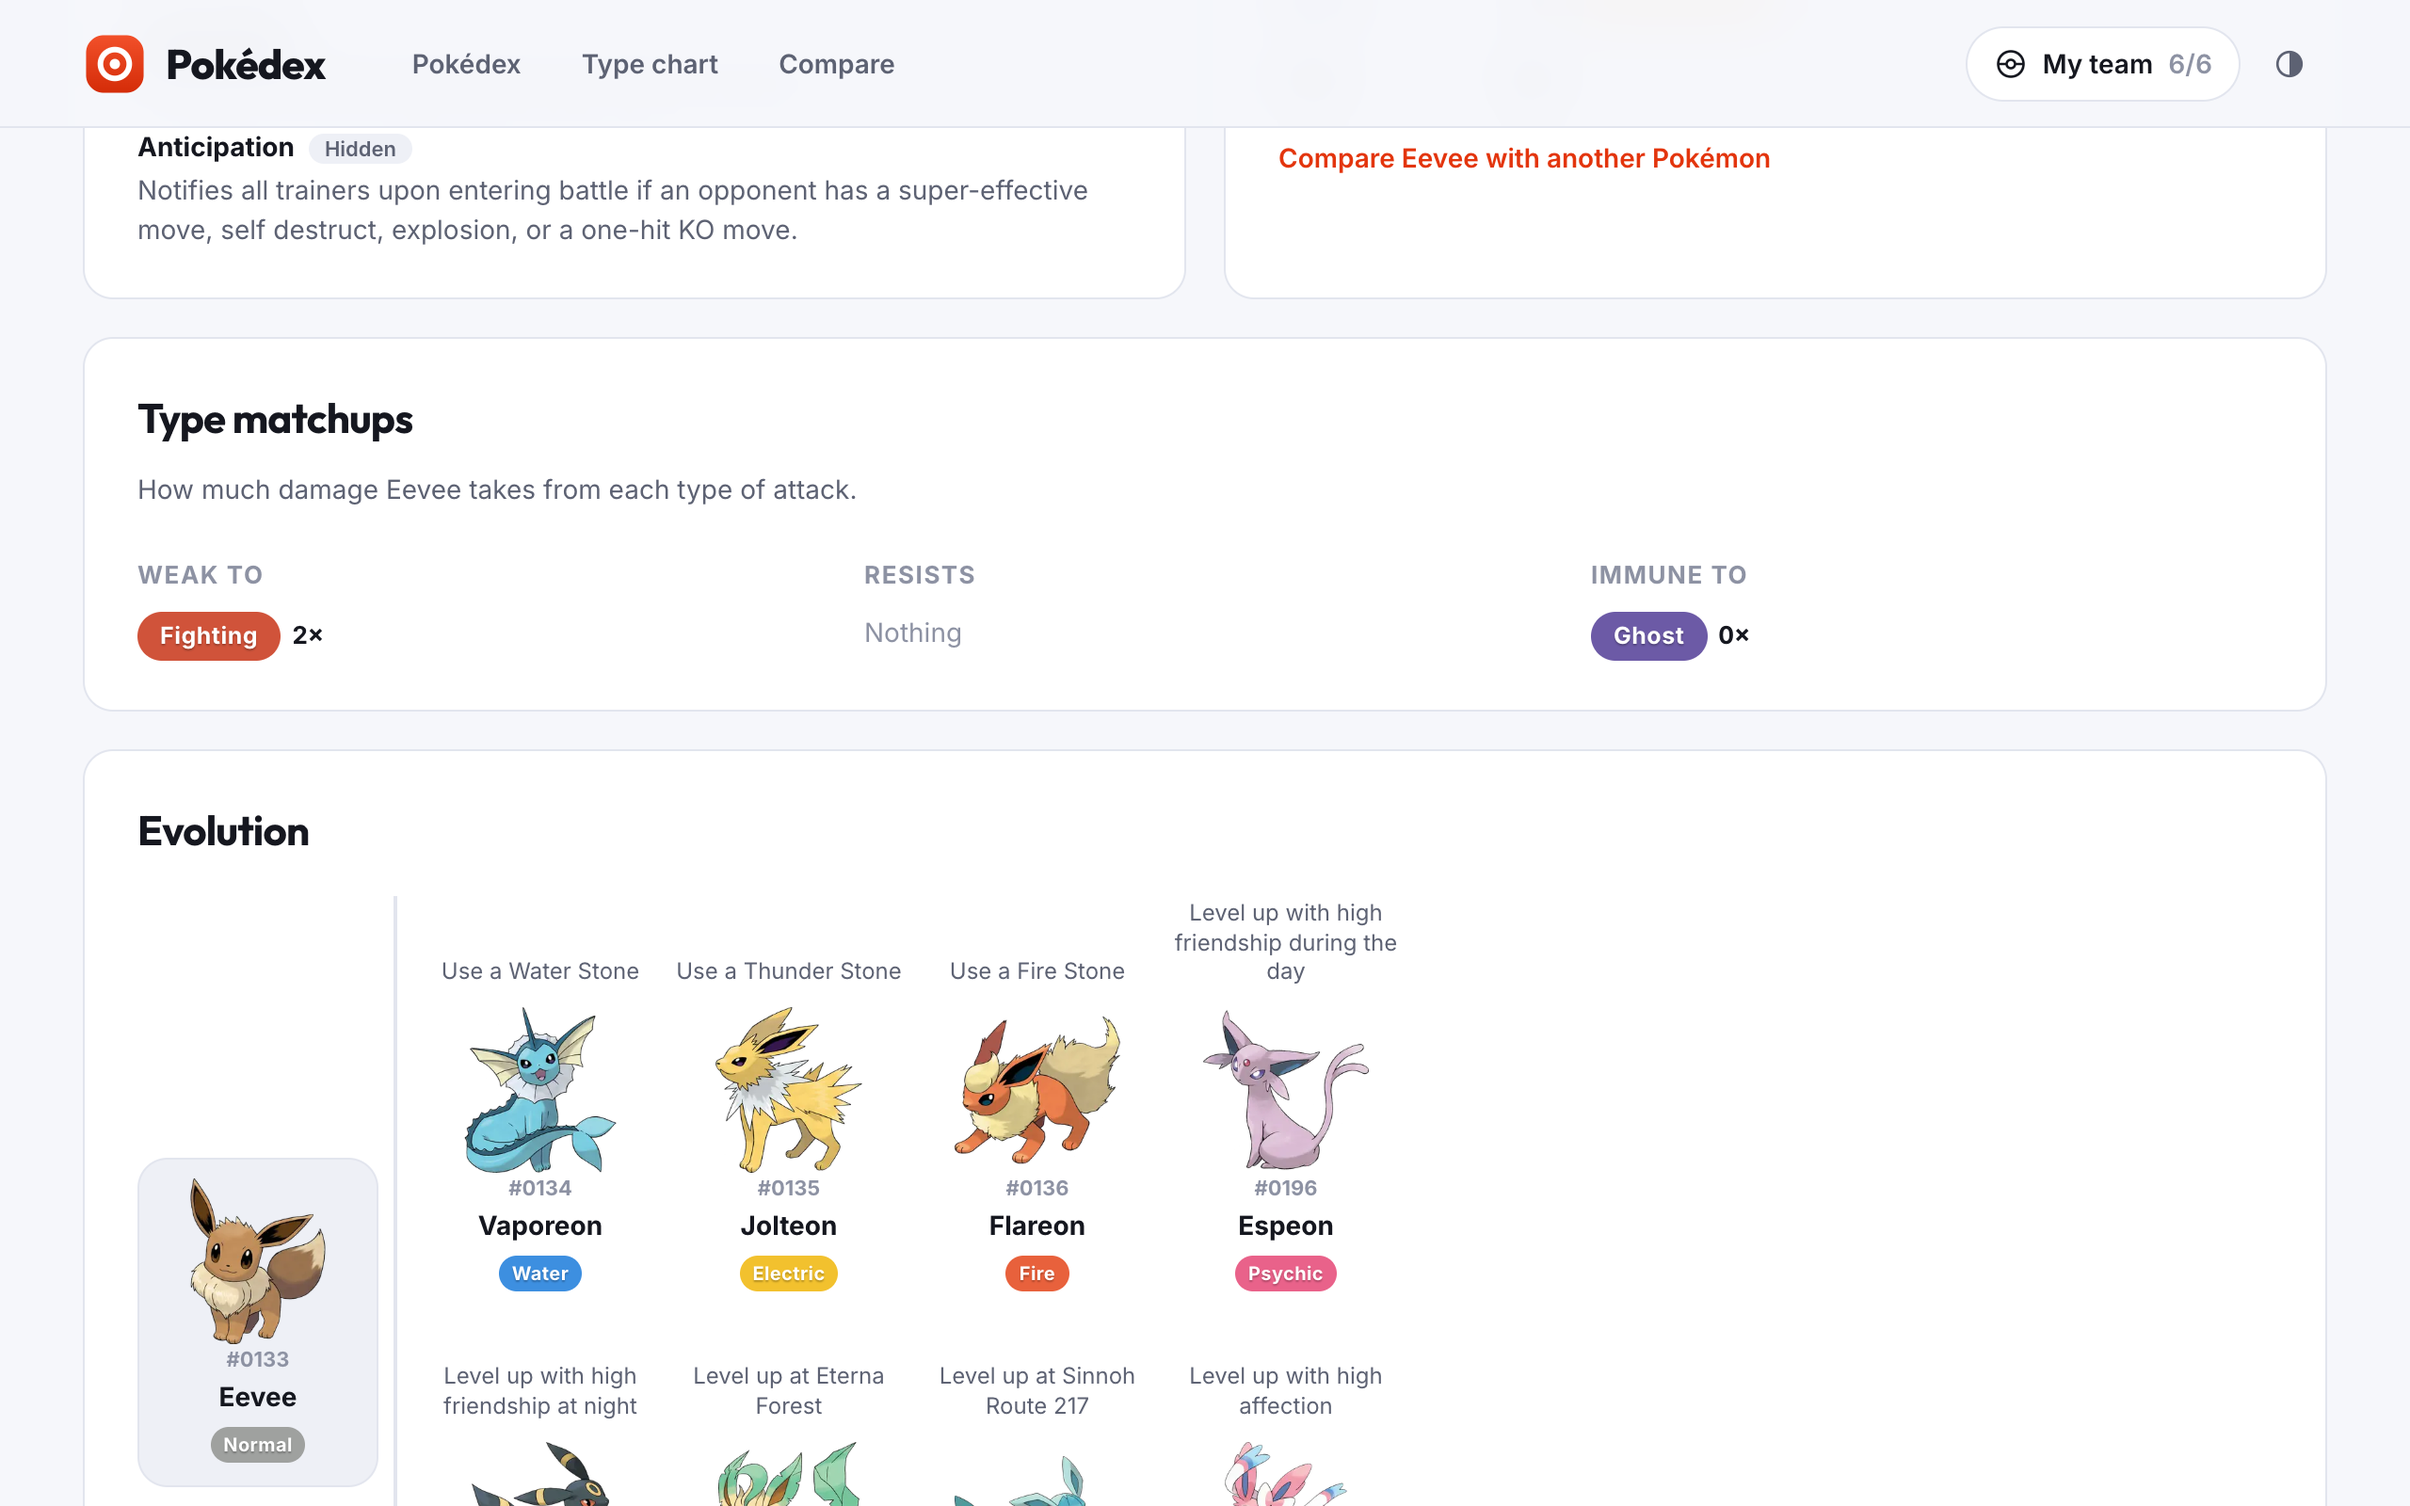
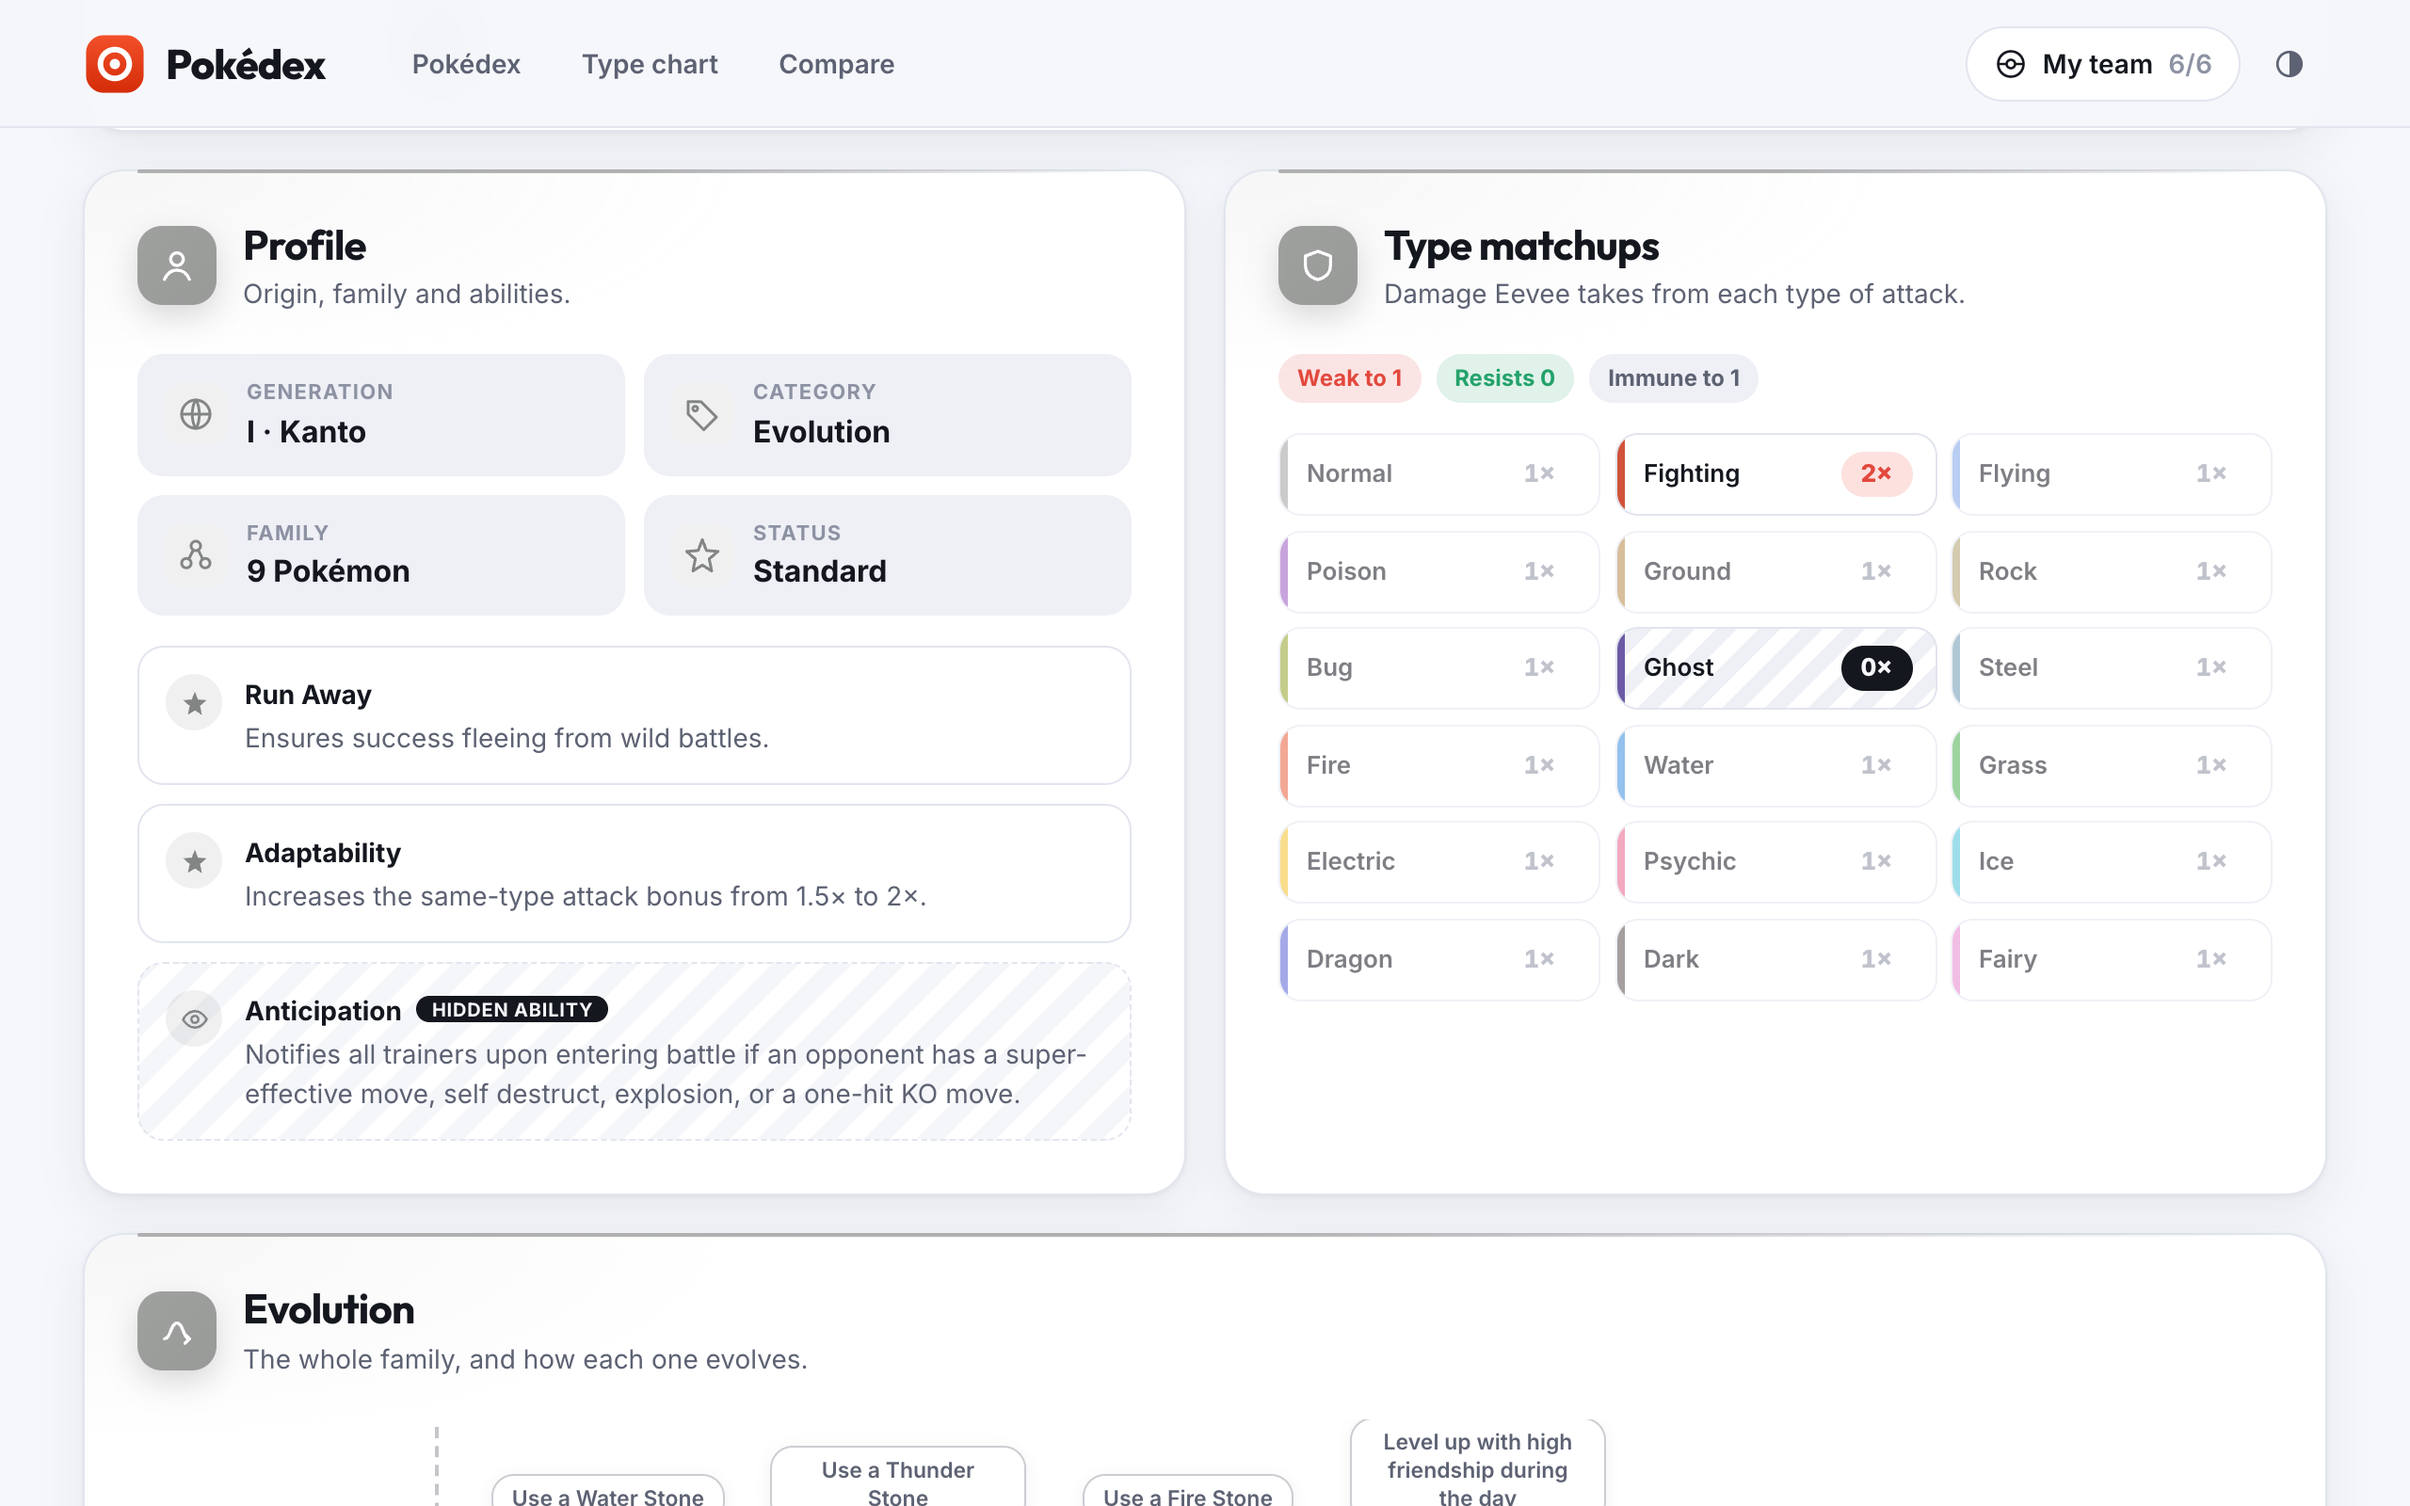
README: the redesigned Pokémon page

diff --git a/README.md b/README.md
@@ -23,7 +23,7 @@
 
 | | |
 | --- | --- |
-| <img src="docs/screenshots/pokemon.png" alt="Charizard's page" /><br />**Pokémon page**: artwork, types, Pokédex entry, size and abilities | <img src="docs/screenshots/pokemon-stats.png" alt="Base stats and type matchups" /><br />**Base stats and matchups**: what it's weak to, resists and ignores |
+| <img src="docs/screenshots/pokemon.png" alt="Charizard's page" /><br />**Pokémon page**: animated hero with artwork, types, Pokédex entry and quick facts | <img src="docs/screenshots/pokemon-stats.png" alt="Base stats and type matchups" /><br />**Base stats and matchups**: a stat radar, ranks against every Pokémon and all 18 types |
 | <img src="docs/screenshots/evolution.png" alt="Eevee's evolutions" /><br />**Evolutions**: every branch, with how each one happens | <img src="docs/screenshots/type-chart.png" alt="The type chart" /><br />**Type chart**: all 18 types, attacking and defending |
 | <img src="docs/screenshots/team.png" alt="The team builder" /><br />**Team builder**: up to six Pokémon, with weak spots across the team | <img src="docs/screenshots/compare.png" alt="Comparing Pokémon" /><br />**Compare**: two Pokémon side by side |
 | <img src="docs/screenshots/home-dark.png" alt="The home page in dark mode" /><br />**Dark mode**, following the system or your choice | <img src="docs/screenshots/pokemon-dark.png" alt="A Pokémon page in dark mode" /><br />**Pokémon page** in dark mode |
@@ -35,7 +35,7 @@ I first built this in April 2022 with Create React App, fetching PokéAPI from t
 ## Features
 
 - **Browse** all 1,025 Pokémon: search by name, number or type, filter by type and generation, sort by number, name or base stat total. Filters live in the URL, so any view can be shared
-- **Pokémon pages** with official artwork, Pokédex entry, height, weight, abilities (hidden ones marked), base stats, type matchups, the full evolution family and links to the previous and next Pokémon
+- **Pokémon pages** with high-resolution official artwork, Pokédex entry, quick facts, abilities (hidden ones marked), base stats as a radar and bars ranked against every Pokémon, a matchup grid for all 18 types, the full evolution family and links to the previous and next Pokémon
 - **Type chart** of every attacking and defending combination
 - **Team builder**: pick up to six, see which types hit several of them hard and which they cover, and share the team as a link
 - **Compare** two Pokémon stat by stat, with size and the best type matchup each has against the other
